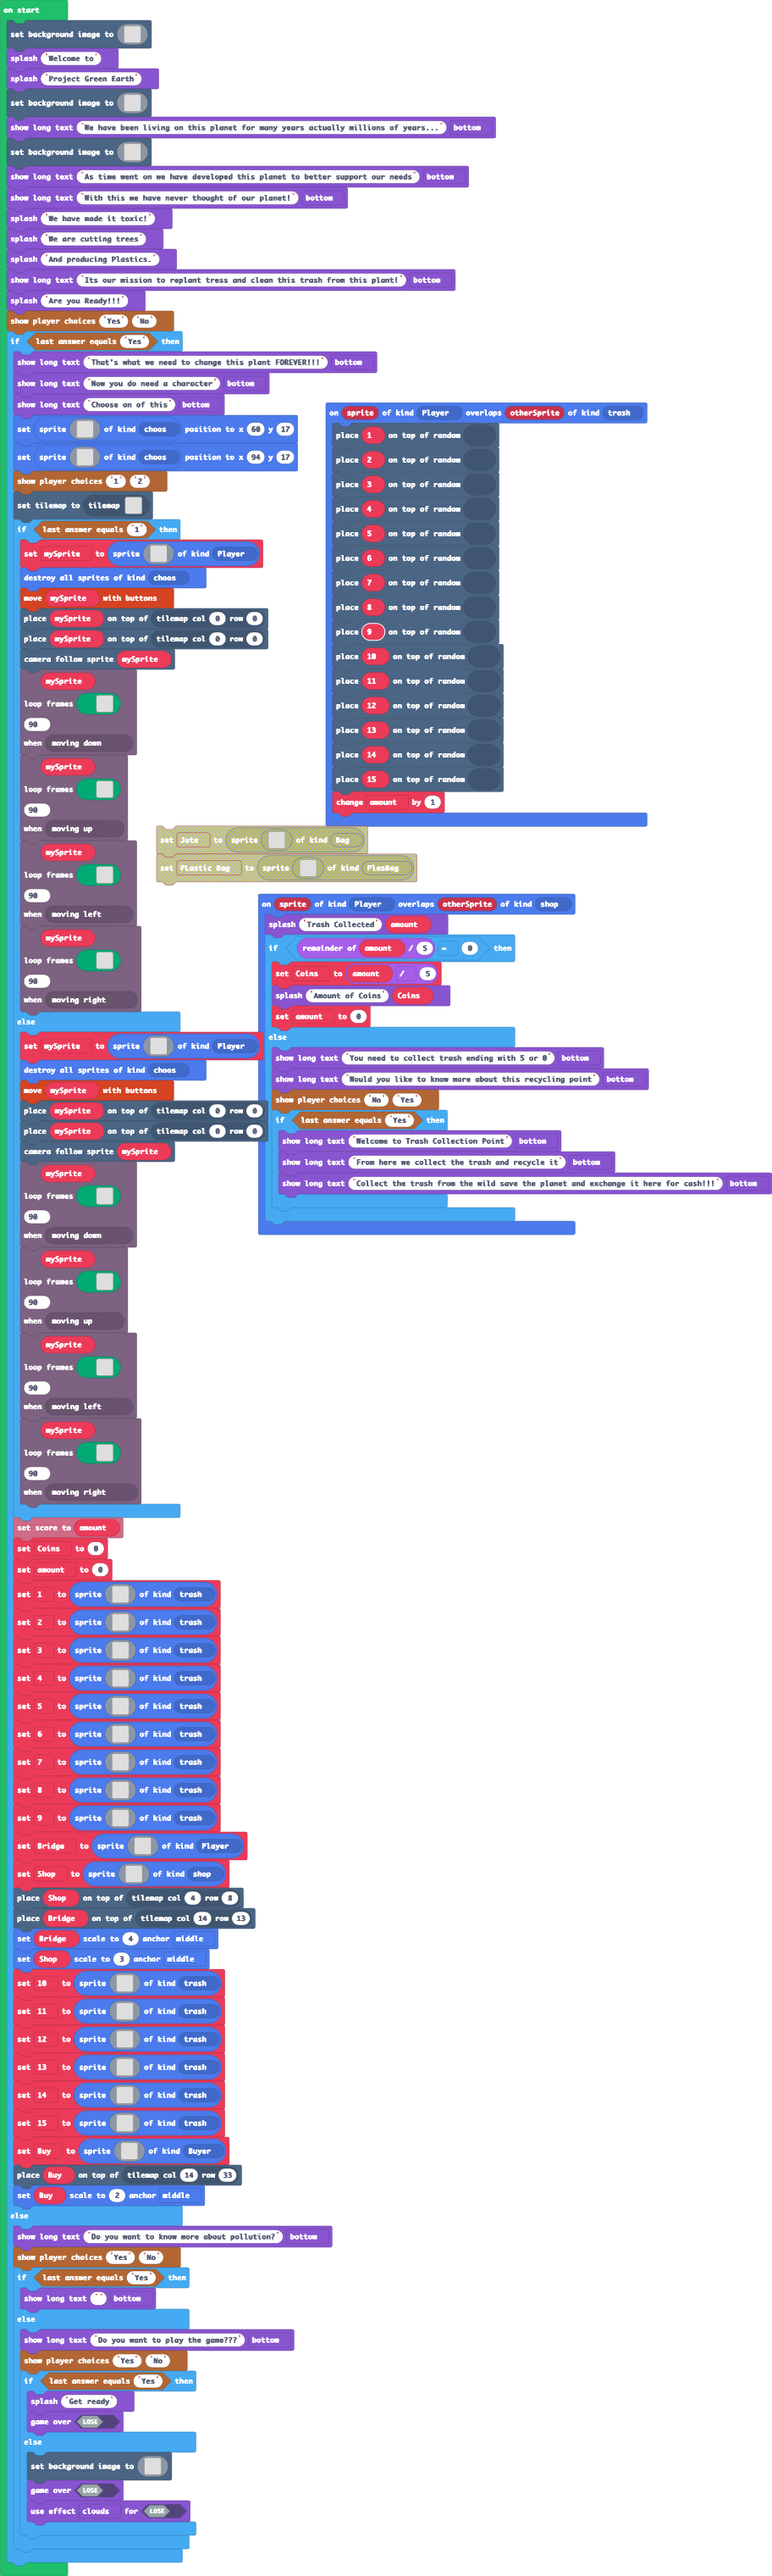
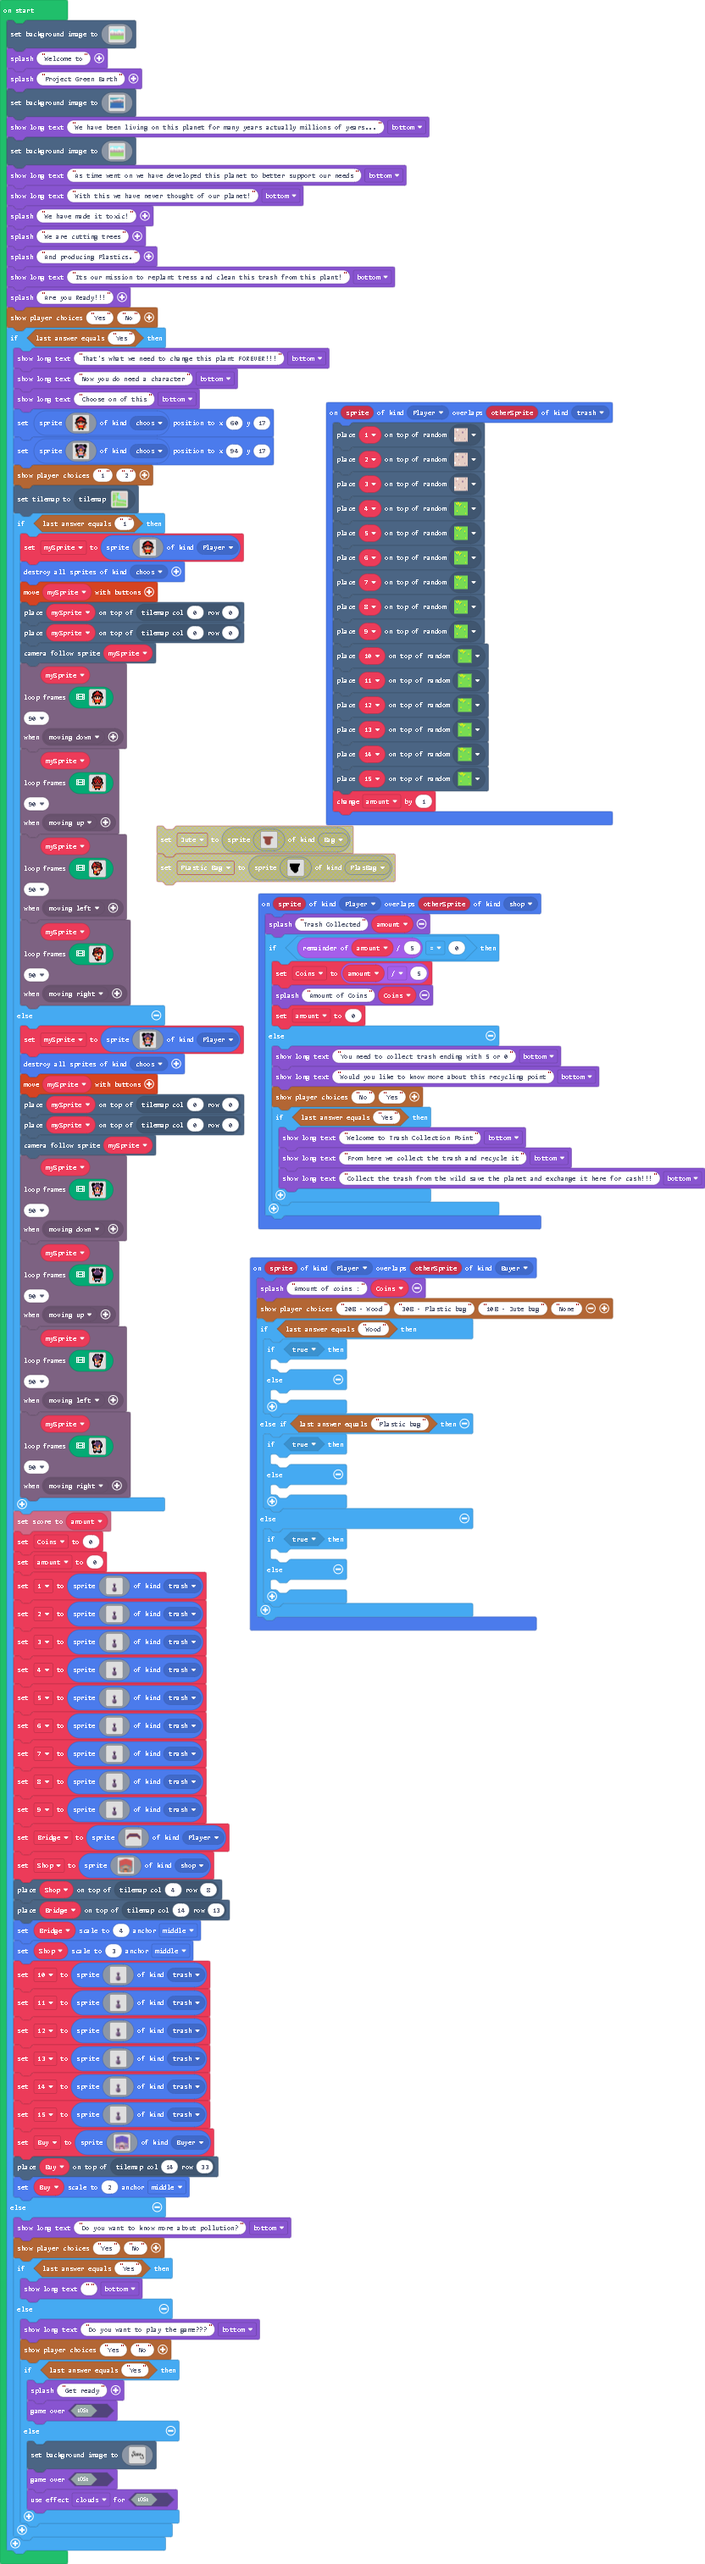
Update main.blocks, main.ts

diff --git a/main.ts b/main.ts
@@ -24,6 +24,29 @@ sprites.onOverlap(SpriteKind.Player, SpriteKind.shop, function (sprite, otherSpr
         }
     }
 })
+sprites.onOverlap(SpriteKind.Player, SpriteKind.Buyer, function (sprite, otherSprite) {
+    game.splash("Amount of coins :", Coins)
+    story.showPlayerChoices("20B - Wood", "30B - Plastic bag", "10B - Jute bag", "None")
+    if (story.checkLastAnswer("Wood")) {
+        if (true) {
+        	
+        } else {
+        	
+        }
+    } else if (story.checkLastAnswer("Plastic bag")) {
+        if (true) {
+        	
+        } else {
+        	
+        }
+    } else {
+        if (true) {
+        	
+        } else {
+        	
+        }
+    }
+})
 sprites.onOverlap(SpriteKind.Player, SpriteKind.trash, function (sprite, otherSprite) {
     tiles.placeOnRandomTile(_1, sprites.castle.tilePath5)
     tiles.placeOnRandomTile(_2, sprites.castle.tilePath5)
